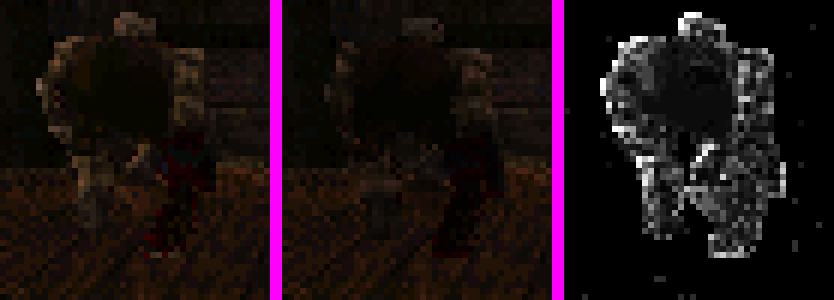
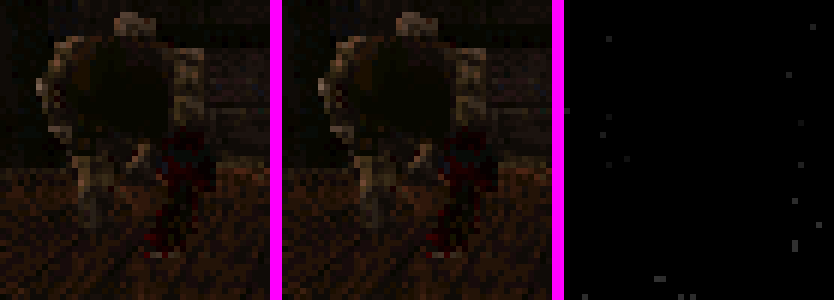
quake-rust: oracle README — the Session 7 numbers; crops refreshed
characterise.sh rerun after the five render fixes (--update-crops): the
headline, the attribution ladder, the altar and viewmodel figures, and the
class table (2, 3, 4, 5, 8, 9 fixed; what stays open in each). The ladder's
lightmap-stepping row was measured before these fixes and says so. Notes a
harness item found on the way: at --settle >= 3 id's light styles are one
frame behind what the port derives from the reported time.

diff --git a/oracle/README.md b/oracle/README.md
@@ -26,7 +26,7 @@ Needs docker (for the build only), uv, cargo, and the shareware pak at
 | `--spans 8\|16\|1` | id's span routine: 8 = `D_DrawSpans8`, id's portable C (default); 16 = the 16-pixel segments of the x86 asm `D_DrawSpans16` (what DOS/Win players saw, `d_subdiv16 1`); 1 = exact per-pixel perspective (an experiment, not id) |
 | `--c-cmd "d_mipscale 0"` | any console command for id's side before the map loads (repeatable) |
 | `--bench N` | also time N warm re-renders of the view in both renderers |
-| `--viewmodel` | draw the weapon too |
+| `--viewmodel` | draw the weapon too (the port is handed id's `cl.viewent` origin and angles, `quaketool view --viewent`) |
 | `--c-only --full --viewsize 100 --settle 10` | id's composited screen (sbar etc.) alone — the port's `view` cannot draw the HUD |
 | `--quaketool PATH` / `--oracle PATH` | A/B a different build of either side |
 
@@ -87,35 +87,50 @@ the steady eye. (The port's live path starts `oldz` at the origin, so its first
 
 ## Results (320x200 unless stated, 2026-09-25)
 
+After the Session 7 fixes (branch `quake/fid1`: classes 2, 3, 4, 5, 8 and 9 below,
+see `AUDIT.md`; the numbers before them are in the git history of this file).
+
 Headline — id's C as written (`D_DrawSpans8`, its own mip levels) vs the port:
 
 | map | world exact% | with entities | entity pixels exact% | 640x480 world |
 |---|---:|---:|---:|---:|
 | e1m1 | 84.76 | 84.75 | 0.0 (16 px) | 90.79 |
-| e1m2 | 60.16 | 60.04 | 14.6 (403 px) | 72.78 |
-| e1m3 | 65.83 | 65.74 | 18.6 (226 px) | 90.74 |
-| e1m7 | 75.48 | 75.45 | 8.5 (59 px) | 94.43 |
+| e1m2 | 64.07 | 64.34 | 97.8 (363 px) | 78.19 |
+| e1m3 | 65.83 | 65.83 | 44.8 (221 px) | 90.74 |
+| e1m7 | 75.65 | 75.67 | 58.2 (55 px) | 94.55 |
+
+The entity-pixel column counts the world pixels around and behind an entity too,
+so it is dominated by class 1 here; with id's mip 0 + exact perspective it reads
+93.75 / 99.72 / 99.53 / 98.15 (was 93.75 / 15.92 / 70.97 / 45.76). nonpal% is 0 in
+every case (was up to 0.45).
 
 An entity-heavy view (e1m2 altar: ogre + two torches, `--view
-1432.386,1397.978,233.254,9.344,-103.449,0`) scores 71.5% world / 71.0% with
-entities. With the viewmodel drawn (`--viewmodel --settle 3`), e1m1 drops from
-84.8% to 79.7%.
+1432.386,1397.978,233.254,9.344,-103.449,0`) scores 73.95% world / 74.50% with
+entities, its entity pixels 100.00% (was 71.5 / 71.0 / 21.8). With the viewmodel
+drawn (`--viewmodel --settle 3`), e1m1 scores 84.34%, the same as the world-only
+frame at that settle (84.33; was 79.7 with the gun). At a settle of 3 or more e1m1's
+far arch differs for a harness reason: id's light styles in that frame (its
+`.json`) are the ones the port derives for 0.1 s earlier (measured) — probably id flooring a double
+`cl.time` that the harness hands over rounded to a float. Passing id's `d_lightstylevalue` to
+the port would remove it (not done).
 
 **Attribution ladder** — id's renderer made to drop one known difference at a time
 (world only; `characterise.sh` prints it):
 
 | id's renderer configured as | e1m1 | e1m2 | e1m3 | e1m7 |
 |---|---:|---:|---:|---:|
-| as written (`--spans 8`) | 84.76 | 60.16 | 65.83 | 75.48 |
-| 16-px segments (`--spans 16`, the x86 asm) | 80.39 | 59.87 | 65.33 | 67.80 |
-| exact per-pixel perspective (`--spans 1`) | 86.97 | 60.36 | 66.00 | 80.22 |
-| mip 0 forced (`--c-cmd "d_mipscale 0"`) | 93.13 | 89.67 | 97.13 | 93.17 |
-| mip 0 + exact perspective | 95.63 | 93.50 | 98.39 | 98.50 |
-| ... and the port given id's lightmap stepping (temporary patch, not committed) | 99.96 | 95.98 | 99.87 | 99.74 |
+| as written (`--spans 8`) | 84.76 | 64.07 | 65.83 | 75.65 |
+| 16-px segments (`--spans 16`, the x86 asm) | 80.39 | 63.79 | 65.33 | 67.98 |
+| exact per-pixel perspective (`--spans 1`) | 86.98 | 64.27 | 66.00 | 80.39 |
+| mip 0 forced (`--c-cmd "d_mipscale 0"`) | 93.13 | 93.59 | 97.13 | 93.35 |
+| mip 0 + exact perspective | 95.63 | 97.41 | 98.39 | 98.68 |
+| ... and the port given id's lightmap stepping (temporary patch, not committed; measured BEFORE the Session 7 fixes) | 99.96 | 95.98 | 99.87 | 99.74 |
 
 With that last step at 640x480: 99.91 / 94.45 / 99.75 / 99.80, and a pitched and
-rolled view (e1m1, pitch -15 yaw 100 roll 12) 99.96. The e1m2 remainder is the sky
-and two water pools (classes 4-5 below). What is left elsewhere (0.04-0.26%) is the
+rolled view (e1m1, pitch -15 yaw 100 roll 12) 99.96. The e1m2 remainder then was
+the sky and two water pools (classes 3, 4, 8 below, since fixed: the e1m2 sky
+region now matches 99.8%; the pools' scattered residue, ~2%, is probably class 7 —
+id steps turb s/t over 16-pixel segments — not verified). What is left elsewhere (0.04-0.26%) is the
 size of id's own floating-point noise: the oracle built with SSE2 float math
 instead of x87 (`ORACLE_FPMATH=sse oracle/build.sh`) differs from the x87 build on
 0.003-0.031% of pixels. So **projection, fov, pixel centres, edge rules, near
@@ -130,14 +145,14 @@ classes a crop is not about removed on id's side where possible.
 | # | class | size | verdict |
 |---|---|---|---|
 | 1 | mip level selection | 5-37 pts of exact% | departure |
-| 2 | alias-model lighting / shading | 80-90% of entity pixels | bug |
-| 3 | liquids and sky drawn overbright | ~75% of liquid/sky pixels | bug |
-| 4 | sky front layer not offset | the whole cloud layer | bug |
-| 5 | weapon viewmodel placement | ~5 pts when drawn | bug |
+| 2 | alias-model lighting / shading | 80-90% of entity pixels | bug — **fixed** (Session 7) |
+| 3 | liquids and sky drawn overbright | ~75% of liquid/sky pixels | bug — **fixed** |
+| 4 | sky front layer not offset | the whole cloud layer | bug — **fixed** |
+| 5 | weapon viewmodel placement | ~5 pts when drawn | bug — **fixed** |
 | 6 | surface-cache lightmap stepping | 1.5-4.4% | departure |
 | 7 | affine span segments | 1-5% | expected so far (design) |
-| 8 | turb warp rounding | ~20-25% of liquid pixels | departure (minor) |
-| 9 | sample-less faces | not seen in these views | departure (code) |
+| 8 | turb warp rounding | ~20-25% of liquid pixels | departure — **fixed** |
+| 9 | sample-less faces | the e1m1 golden view shows one | departure — **fixed** |
 
 1. **Mip levels** (`crops/mip.png`). The port always samples mip 0; id picks a mip
    per surface (`D_MipLevelForScale` on `nearzi * scale_for_mip * mipadjust`,
@@ -155,14 +170,17 @@ classes a crop is not about removed on id's side where possible.
    `R_AliasTransformFinalVert`, then Gouraud colormap rows in `D_PolysetDraw` —
    fullbright texels untouched. Only 8-19% of entity pixels match. id
    also draws alias triangles affine (the port: perspective-correct) — minor,
-   masked by the lighting.
+   masked by the lighting. **Fixed:** the port now runs a port of that whole
+   pipeline (`R_AliasCheckBBox`, `R_AliasClipTriangle`, `D_PolysetDraw`'s
+   fixed-point edge walker, affine, recursive subdivision for far models) — the
+   altar view's entity pixels match 100%.
 3. **Liquids and sky overbright** (`crops/liquid.png`, `crops/pools.png`). The port
    maps turb and sky texels through colormap **row 0**, the brightest row (about
    2x); id writes the raw texel (`D_DrawTurbulent8Span`, `D_DrawSkyScans8` — no
    colormap; the identity is around row 31/32). Looking down at e1m1's water: 21%
    match, and 72-80% of liquid/sky pixels equal `palette[colormap[0][id's texel]]`.
-   Lava survives because its texels are fullbright indices. `render.rs` around the
-   `SurfaceMode::Turb | SurfaceMode::Sky => 0` row choice.
+   Lava survives because its texels are fullbright indices. **Fixed** (raw texel):
+   e1m1 water from above 21% -> 99.45% with class 8.
 4. **Sky layers** (`crops/sky.png`). id's `R_MakeSky` composites the front layer
    shifted by `(int)(skytime*skyspeed)` texels in both axes over the unshifted back
    layer, then `D_Sky_uv_To_st` adds `skytime*skyspeed` to both — front scrolls at
@@ -171,11 +189,18 @@ classes a crop is not about removed on id's side where possible.
    (only the class-3 brightness remains). Also expected-minor: id samples the sky
    exactly only every 32 pixels (`SKY_SPAN_SHIFT`) and uses the integer screen
    centre. (AUDIT's LOW "sky foreground drift" is this, and it is not small.)
+   **Fixed**, the 32-pixel spans included (the world pass defers its sky pixels
+   and redraws each visible run of a sky face as one span): the e1m2 sky region
+   matches 99.8%. Open: at a viewsize below 120 id's sky centre is the SCREEN's
+   (`vid.width>>1`), not the view rectangle's; the port uses the view's.
 5. **Viewmodel** (`crops/viewmodel.png`). The port hangs the gun with invented
    offsets (`OFS_FORWARD 7`, `OFS_RIGHT 1.5`, `OFS_UP 3.5`) and its own depth buffer;
    id puts `cl.viewent` at the eye (+ bob, + the `scr_viewsize` fudge), angles from
    `CalcGunAngle`, drawn by `R_AliasDrawModel` like any alias model. The port's
-   shotgun is several times larger and in a different place.
+   shotgun is several times larger and in a different place. **Fixed** (the
+   origin with the options branch; then the alias pipeline, the camera's 1/32
+   epsilon, full-pitch bob, CalcGunAngle's pre-punch angles, the tripled 1/z):
+   the frame with the gun matches as well as the frame without it.
 6. **Lightmap stepping** (`crops/lightmap.png`). id's `R_DrawSurfaceBlock8_mip0`
    interpolates the already inverted, clamped light (`t = (255*256 - bl) >> 2`,
    `>= 64`) with `>> 4` integer steps, and horizontally walks from the **right**
@@ -193,11 +218,14 @@ classes a crop is not about removed on id's side where possible.
 8. **Turb warp.** The port rounds `sintable` to whole texels and floors s/t before
    adding; id adds the 16.16 table value to the fixed-point coordinate and then
    takes `>> 16`, over 16-pixel segments. About a fifth of liquid pixels land one
-   texel off once class 3 is factored out.
-9. **Sample-less faces** (`lightofs == -1`, ~375 world faces in e1m1, ~430 in e1m2).
+   texel off once class 3 is factored out. **Fixed** (per pixel; id's 16-pixel
+   linear segments are class 7).
+9. **Sample-less faces** (`lightofs == -1`, ~375 world faces in e1m1, ~430 in e1m2 —
+   ordinary textures, not the sky/turb faces, which are counted apart).
    id's `R_BuildLightMap` leaves them at ambient 0, i.e. colormap row 63 (black);
-   the port draws them at normal brightness. Not visible in any view measured here
-   (the class ladder reaches 99.9% without it), so it is a code-reading verdict.
+   the port drew them at normal brightness. Not visible in the views above, but
+   the e1m1 golden camera shows one (a recessed panel edge). **Fixed**; still
+   open: a map with no lighting lump (id: fullbright) renders Lambert.
    AUDIT's "lightless/test maps only" is wrong about where such faces exist.
 
 Brush entities (doors, plats, `b_*.bsp` boxes) matched about as well as the world
